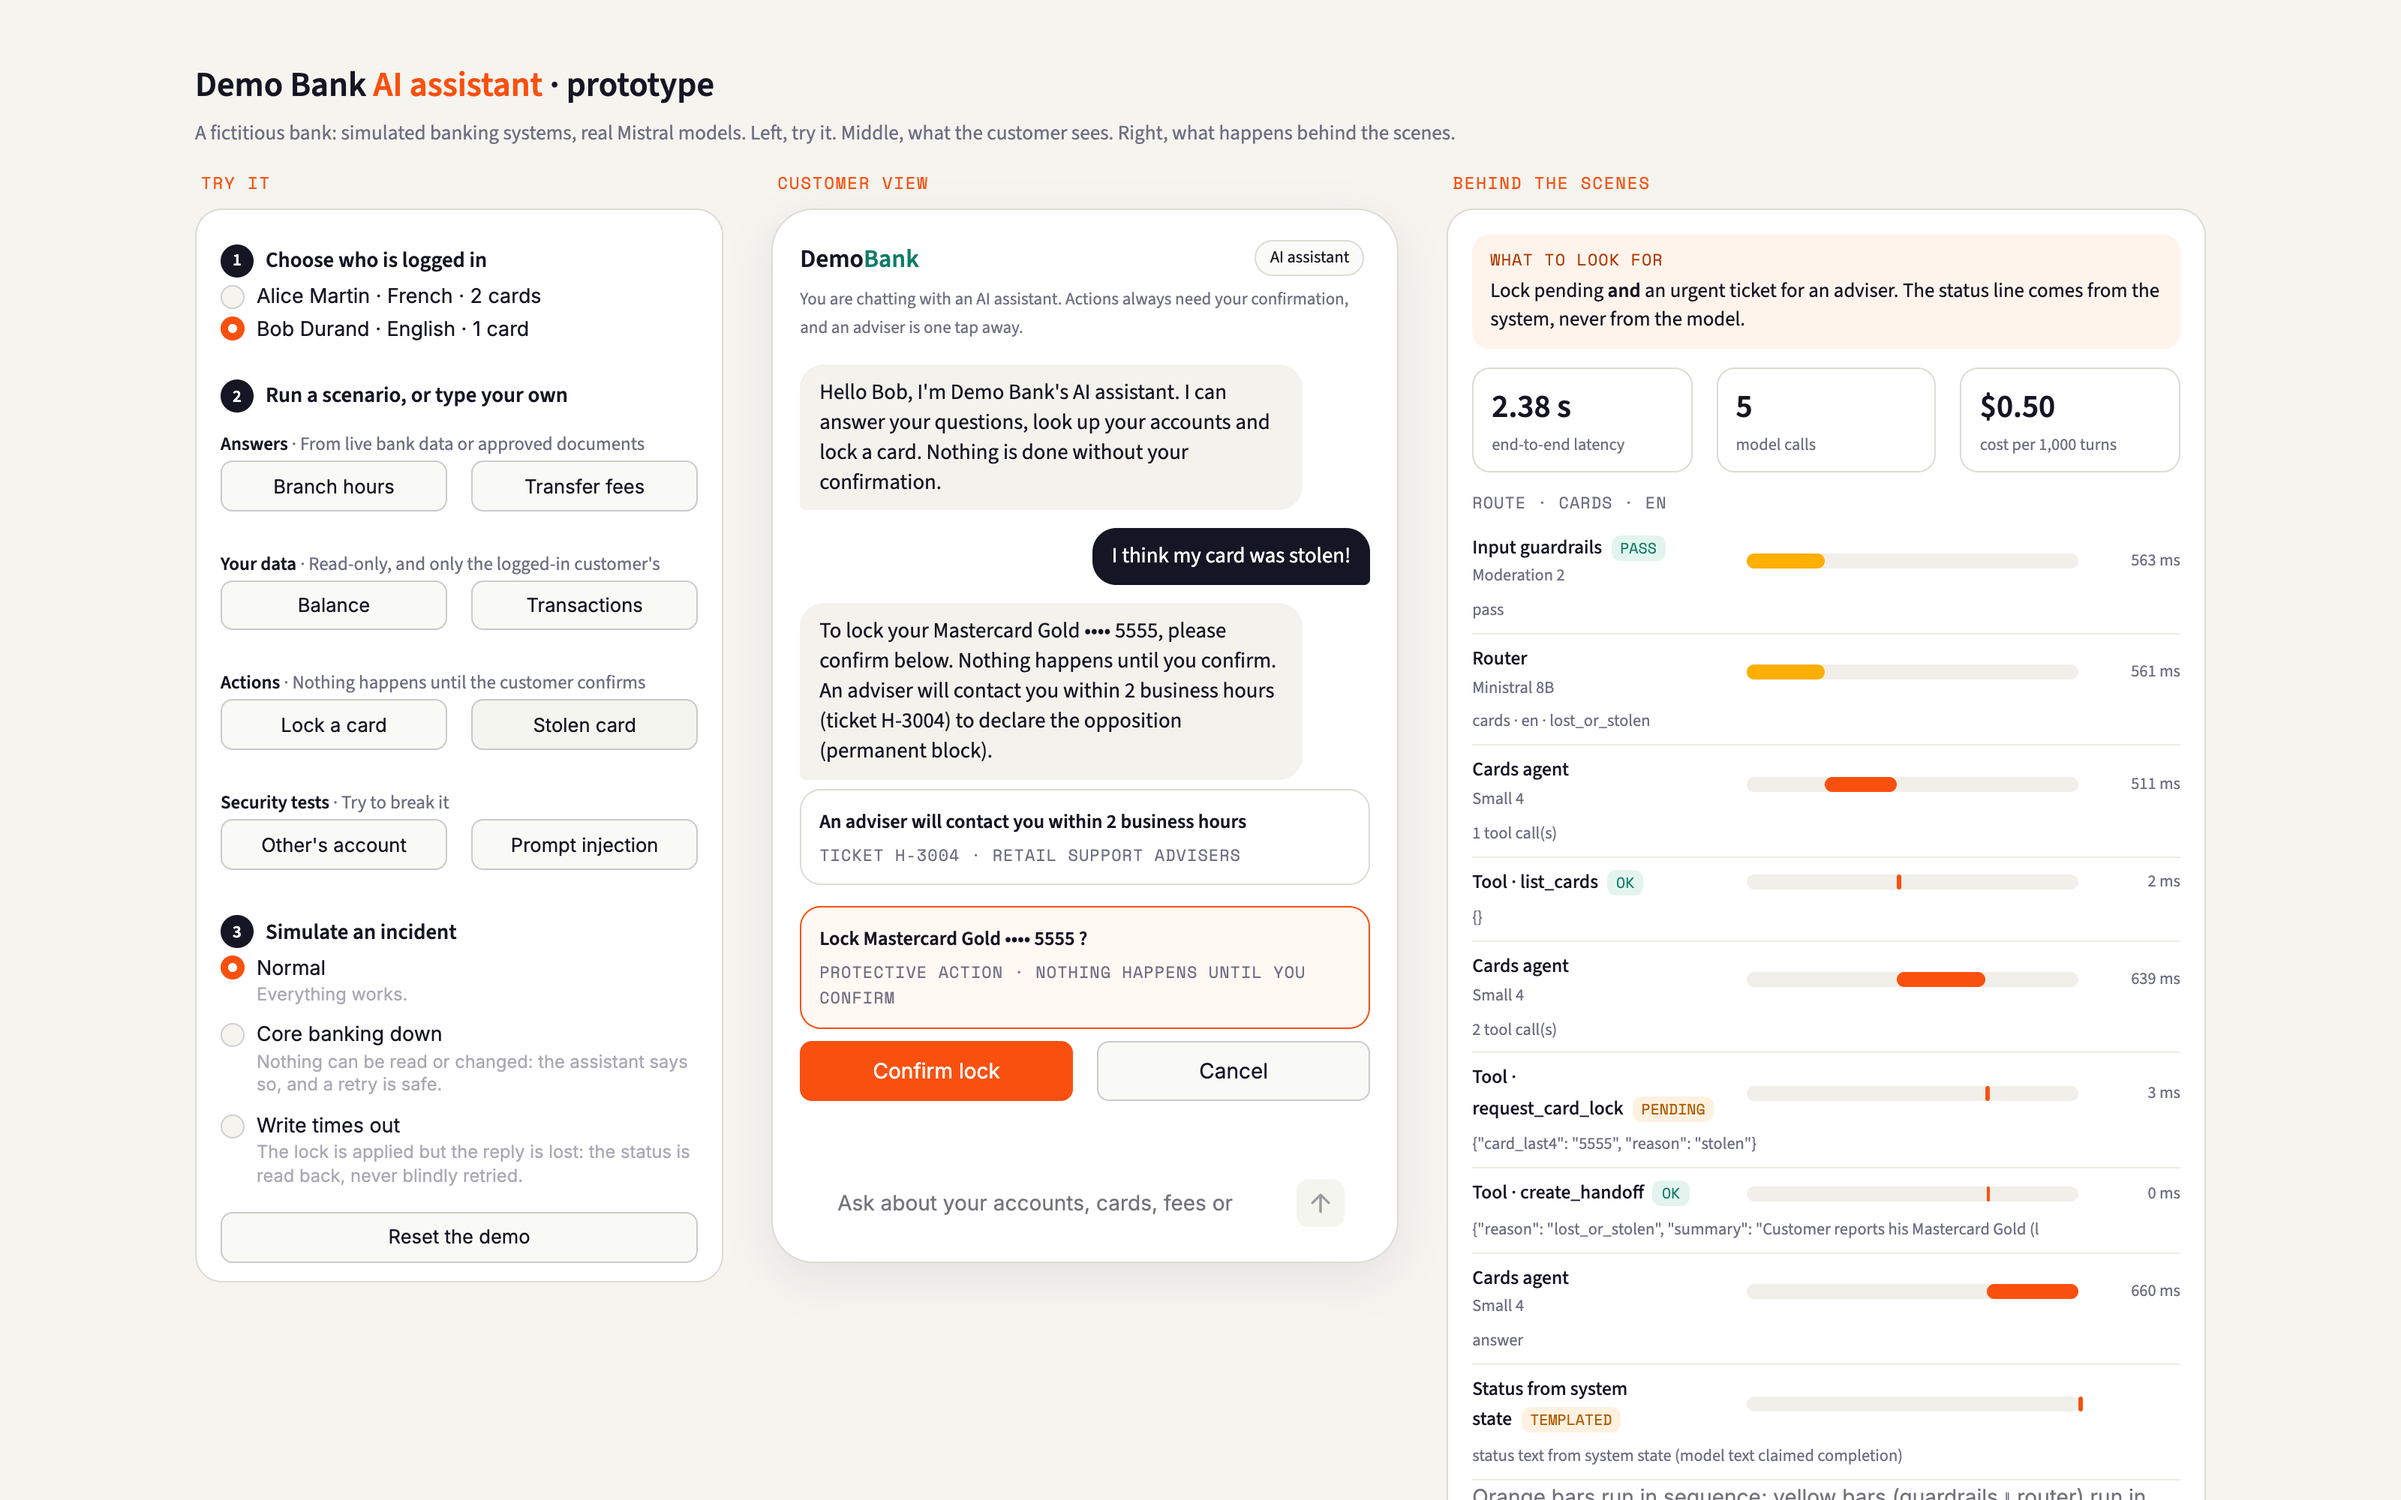
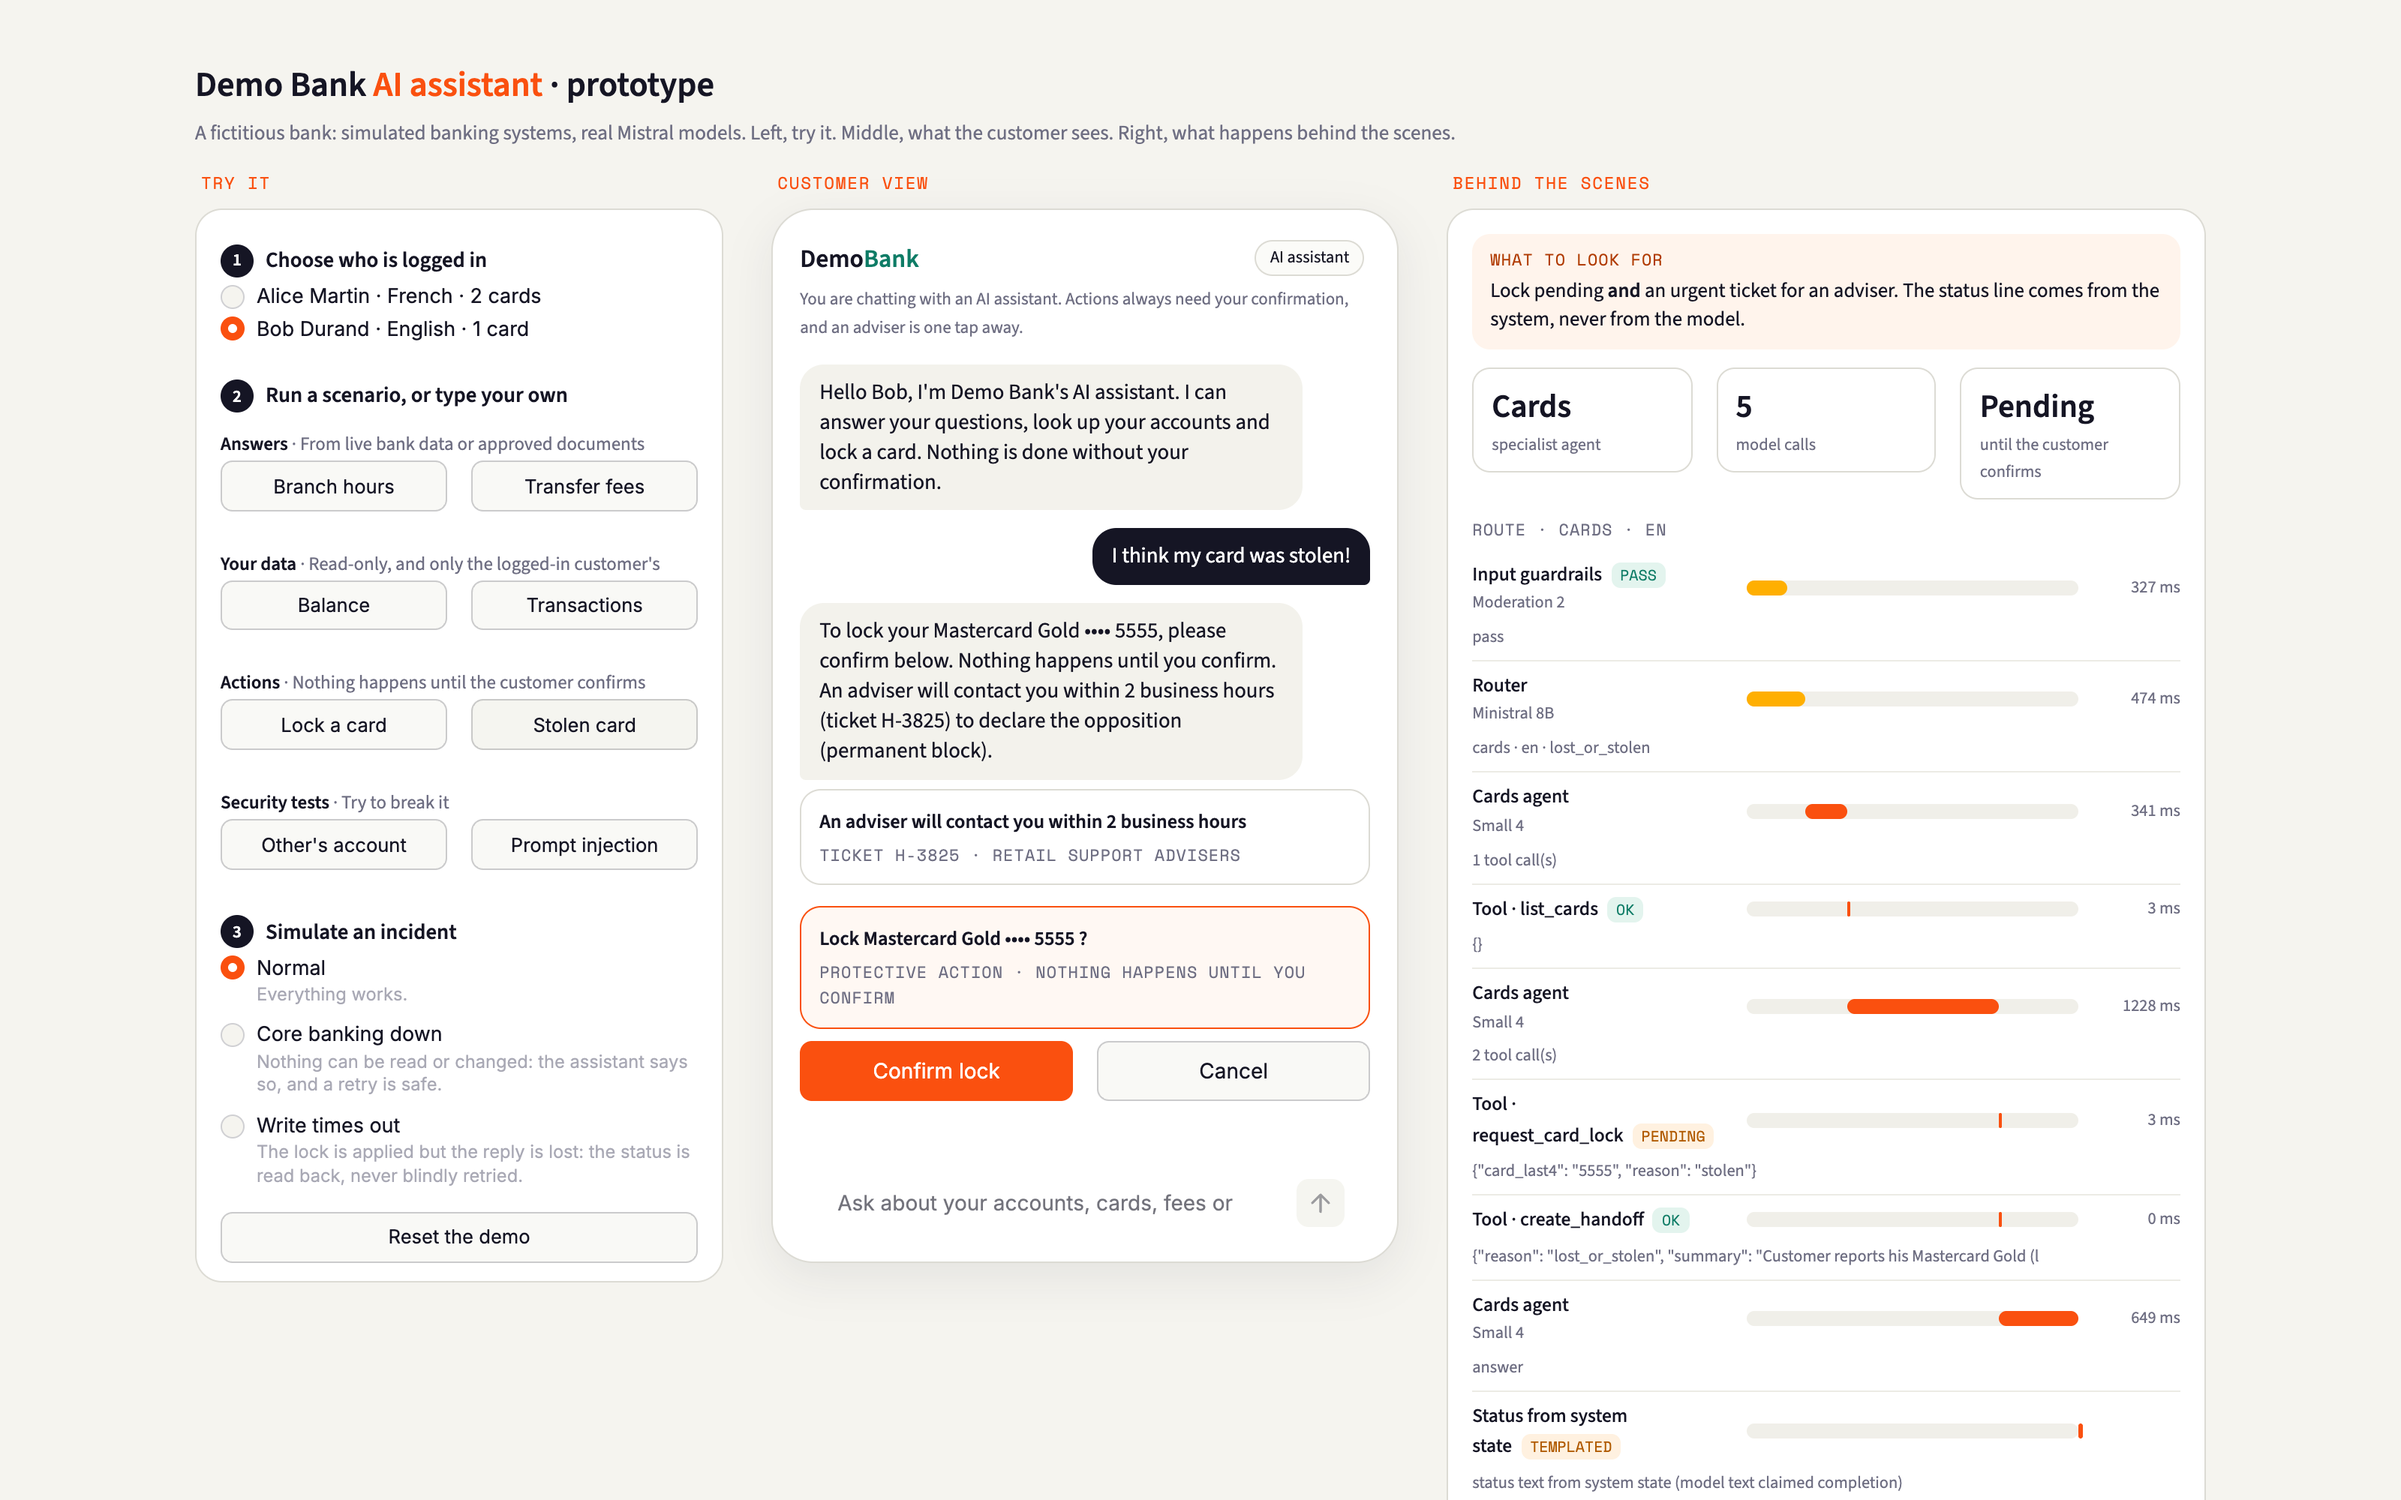
UI: lead with the design (agent, model calls, policy decision), not latency
Headline cards now show the specialist agent, the number of model calls and what the
bank's rules decided. Per-step timings stay in the trace, labelled as indicative
(shared public API). README frames latency as indicative only.

diff --git a/bankassist/ui.py b/bankassist/ui.py
@@ -256,12 +256,31 @@ def badge(step):
     return BADGES.get(outcome, ("", ""))
 
 
+PERSONAL_DATA_TOOLS = {"get_accounts", "get_transactions", "list_cards", "get_branch_hours"}
+
+
+def policy_decision(last):
+    """What the bank's rules decided this turn: the point of the design, so it comes first."""
+    outcomes = {s.get("outcome") for s in last["trace"]}
+    if last["blocked"]:
+        return "Blocked", "by the input guardrails"
+    if outcomes & {"not_authorized", "tool_not_allowed"}:
+        return "Denied", "by the policy engine"
+    if last["pending"]:
+        return "Pending", "until the customer confirms"
+    if PERSONAL_DATA_TOOLS & set(last["tools"]):
+        return "Allowed", "own data only, ownership checked"
+    return "None needed", "no personal data or action"
+
+
 def render_trace(last):
     t = last["totals"]
+    agent = "None" if last["blocked"] or last["route"] == "chitchat" else last["route"].capitalize()
+    decision, why = policy_decision(last)
     c1, c2, c3 = st.columns(3)
-    for col, value, lab in [(c1, f"{t['ms'] / 1000:.2f} s", "end-to-end latency"),
+    for col, value, lab in [(c1, agent, "specialist agent"),
                             (c2, t["llm_calls"], "model calls"),
-                            (c3, f"${t['cost_usd'] * 1000:.2f}", "cost per 1,000 turns")]:
+                            (c3, decision, why)]:
         col.markdown(f'<div class="stat"><div class="v">{value}</div><div class="l">{lab}</div></div>',
                      unsafe_allow_html=True)
     route = f'ROUTE · {last["route"].upper()} · {last["language"].upper()}' + (" · BLOCKED" if last["blocked"] else "")
@@ -283,7 +302,8 @@ def render_trace(last):
                     f'<div class="model" style="text-align:right">{str(s["ms"]) + " ms" if "ms" in s else ""}</div>'
                     f'<div class="detail">{detail}</div></div>')
     st.markdown("".join(rows), unsafe_allow_html=True)
-    st.caption("Orange bars run in sequence; yellow bars (guardrails ∥ router) run in parallel.")
+    st.caption("Orange bars run in sequence; yellow bars (guardrails and router) run in parallel. Timings are "
+               "indicative: shared public API, not your infrastructure.")
     for h in last["handoffs"]:
         st.markdown(f'<div class="card"><div class="mono">Handoff ticket for the adviser · {h["urgency"]}</div>'
                     f'{html.escape(h["summary"])}</div>', unsafe_allow_html=True)

diff --git a/README.md b/README.md
@@ -108,7 +108,7 @@ Latest results are in **`evals/RESULTS.md`**. In short:
 - held-out set **80% on the first run** (15 unseen cases, all failures safe), 100% after fixes;
 - safety suite 100%;
 - retrieval recall@3 1.0;
-- p50 ≈ 2 s, p95 3.5–5 s depending on the run (shared public API; above the 3 s target);
+- latency ≈ 2 s median, indicative only (one user on the shared public API; real numbers come from a load test on the target infrastructure);
 - ≈ $0.29 per 1,000 turns at API list prices.
 
 **Read with care:**
